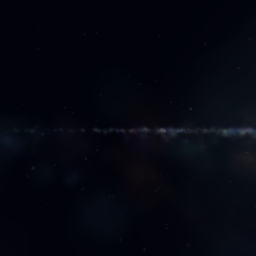
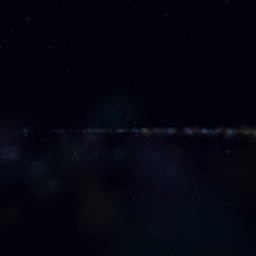
[fix] the core is a fixed budget, not a fraction of the nebulae
The generator put ~1/11 of nebulae on the core — a FRACTION, so a 100k-star
galaxy gave the core ~1,400 blobs against the ~135 that looked right at
10k, and the coreward bake face peaked at 247/255: blinding, before any
star contributed. The core is ONE visual feature (veiling the black hole)
and now gets a fixed CORE_NEBULA_BUDGET of 150 regardless of the total —
the same count that looked right at 10k. Measured after: the coreward face
peaks at 176. Tonio's hypothesis, confirmed by measurement.

Changed region(s): [[0.8438, 0.4688, 1.0, 0.5312], [0.625, 0.5, 0.7188, 0.5312], [0.3438, 0.5, 0.375, 0.5312]]

diff --git a/src/galaxy-data.ts b/src/galaxy-data.ts
@@ -1089,6 +1089,8 @@ export function generateGalaxy(
 
   /** Dust vs glow. One number, applied everywhere — see the note at the draw. */
   const DARK_FRACTION = 0.5
+  /** Core-bound nebulae, REGARDLESS of the total count — see `inCore`. */
+  const CORE_NEBULA_BUDGET = 150
 
   // Dark nebula color: black → brown
   function darkNebulaColor(t: number): [number, number, number] {
@@ -1110,7 +1112,15 @@ export function generateGalaxy(
     also what the real thing looks like: the Milky Way's centre is behind so
     much dust that we cannot see it in visible light at all.
     */
-    const inCore = prng.probability(0.09)
+    /*
+    A FIXED BUDGET, not a fraction. The core is ONE visual feature, and it
+    should not grow nine times brighter just because the galaxy has nine
+    times the nebulae — a 0.09 fraction put ~1,400 blobs on the core at
+    100k (against ~135 at 10k), and the coreward bake face peaked at
+    247/255: blinding. 150 is the count the 10k galaxy had when the core
+    looked right, so that is what every galaxy gets.
+    */
+    const inCore = i < CORE_NEBULA_BUDGET
     /*
     HALF DUST, HALF GLOW — everywhere, core included. Tonio: "change the mix of
     bright and emissive nebula to 50 50."
